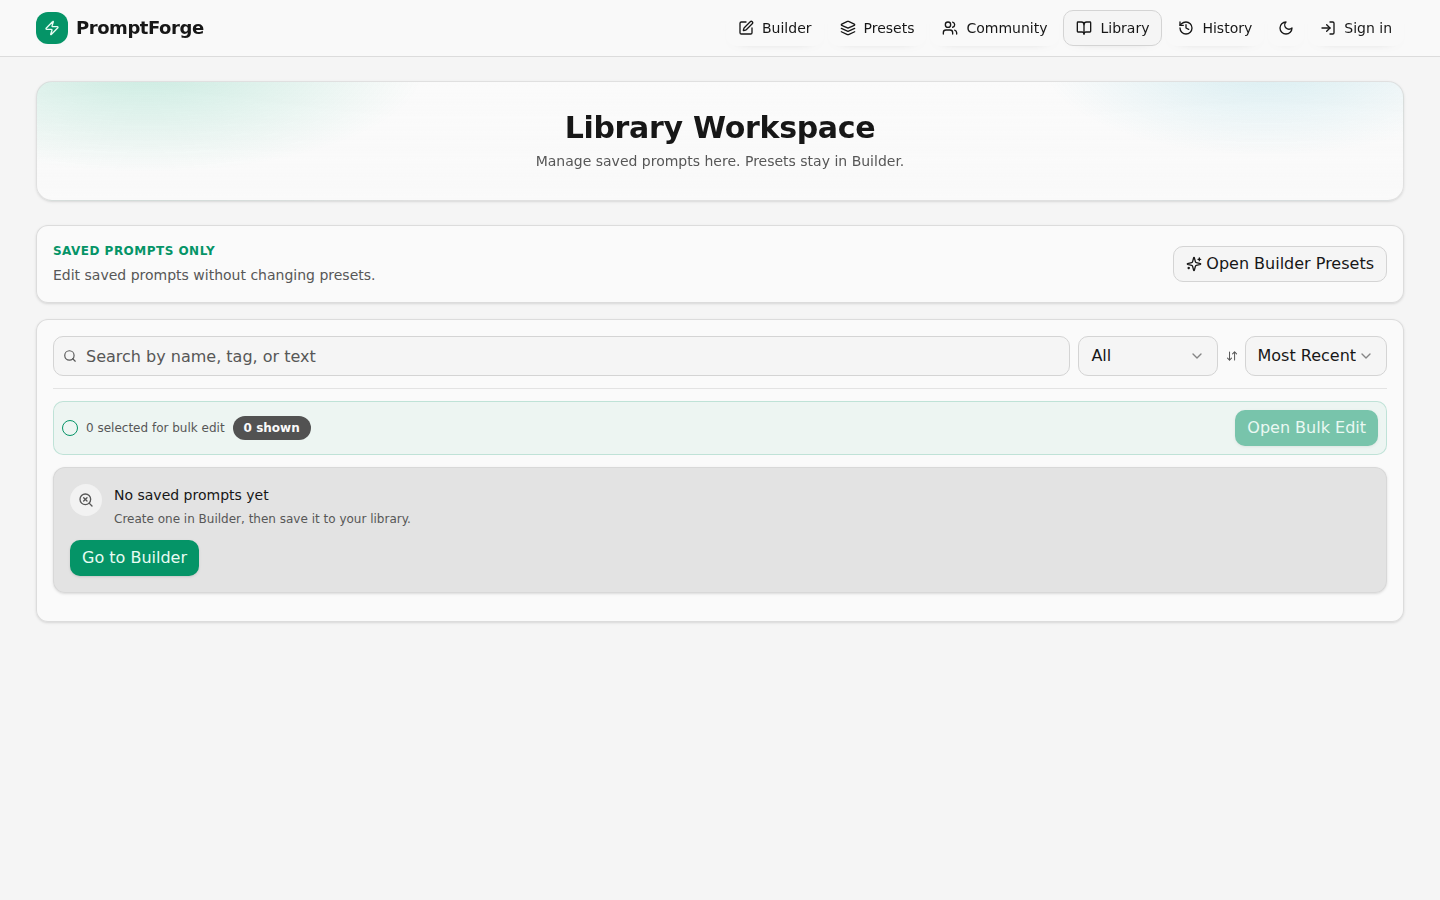
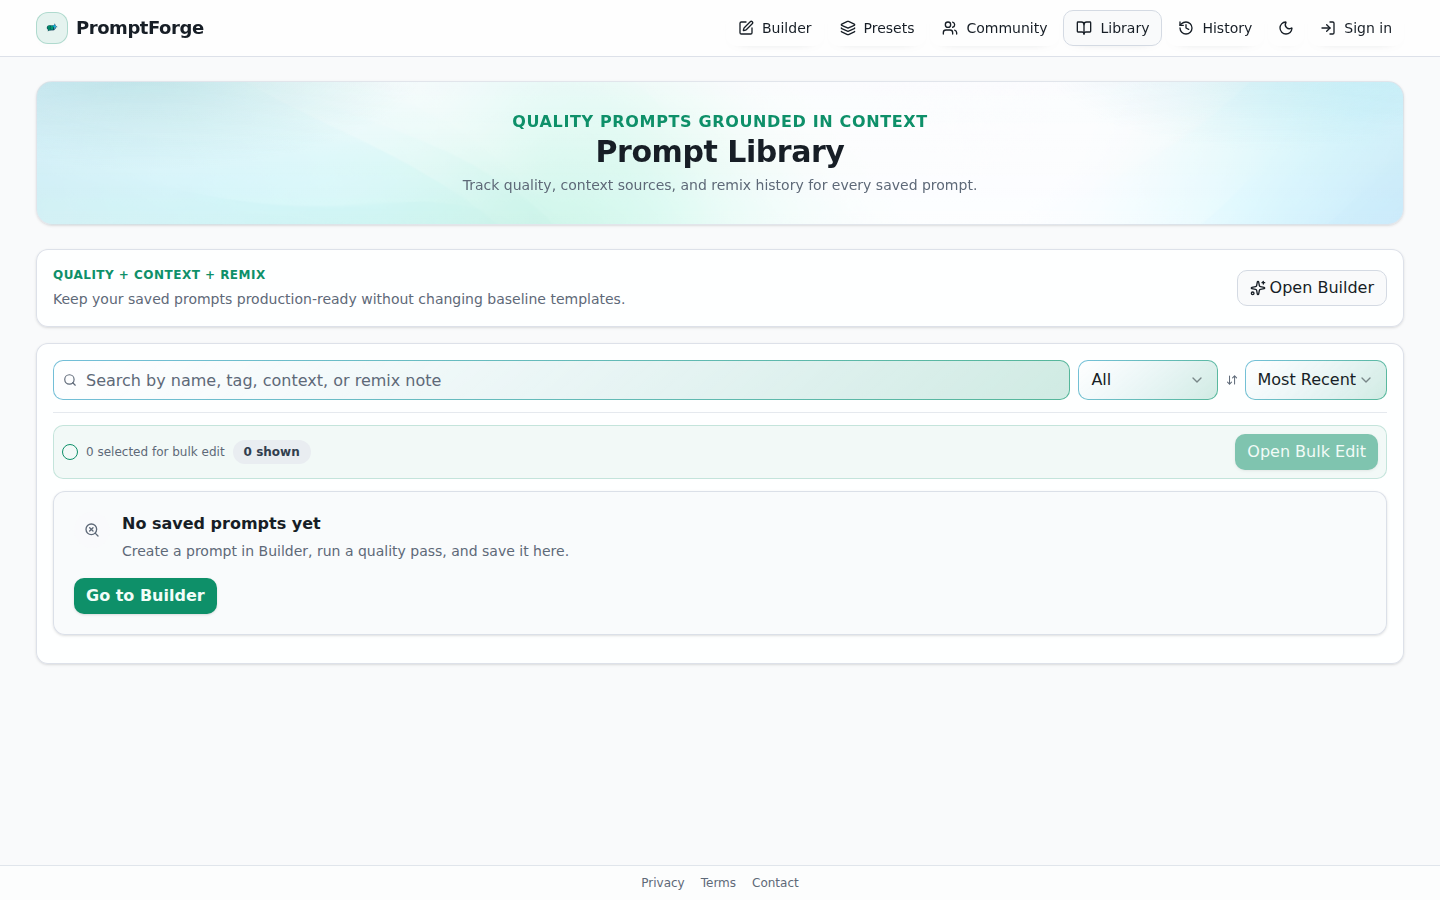
up

diff --git a/src/index.css b/src/index.css
@@ -431,6 +431,51 @@ All colors MUST be HSL.
 }
 
 @layer components {
+  .brand-gradient-hero {
+    background-image:
+      radial-gradient(520px 220px at 8% -12%, hsl(var(--delight-warm) / 0.2), transparent 58%),
+      radial-gradient(460px 220px at 92% -14%, hsl(var(--delight-cool) / 0.16), transparent 56%),
+      linear-gradient(180deg, hsl(var(--delight-surface) / 0.55), hsl(var(--card) / 0.9));
+  }
+
+  .brand-gradient-surface {
+    background-image: linear-gradient(
+      140deg,
+      hsl(var(--card)),
+      hsl(var(--delight-surface) / 0.72)
+    );
+  }
+
+  .brand-border-gradient {
+    border: 1px solid transparent;
+    background:
+      linear-gradient(hsl(var(--card)), hsl(var(--card))) padding-box,
+      linear-gradient(120deg, hsl(var(--delight-cool) / 0.6), hsl(var(--delight-warm) / 0.7)) border-box;
+  }
+
+  .brand-input-surface {
+    border: 1px solid transparent;
+    background:
+      linear-gradient(
+        140deg,
+        hsl(var(--card)),
+        hsl(var(--delight-surface) / 0.72)
+      ) padding-box,
+      linear-gradient(120deg, hsl(var(--delight-cool) / 0.6), hsl(var(--delight-warm) / 0.7)) border-box;
+  }
+
+  .brand-input-segment {
+    border-style: solid;
+    border-color: transparent;
+    background:
+      linear-gradient(
+        140deg,
+        hsl(var(--card)),
+        hsl(var(--delight-surface) / 0.72)
+      ) padding-box,
+      linear-gradient(120deg, hsl(var(--delight-cool) / 0.6), hsl(var(--delight-warm) / 0.7)) border-box;
+  }
+
   .delight-hero,
   .delight-hero-static {
     @apply rounded-2xl border border-border/70 px-4 py-5 sm:px-6 sm:py-7 shadow-sm;

diff --git a/src/components/ui/input.tsx b/src/components/ui/input.tsx
@@ -8,7 +8,7 @@ const Input = React.forwardRef<HTMLInputElement, React.ComponentProps<"input">>(
       <input
         type={type}
         className={cn(
-          "flex h-11 w-full rounded-md border border-input bg-background px-3 py-2 text-base ring-offset-background file:border-0 file:bg-transparent file:text-base file:font-medium file:text-foreground placeholder:text-muted-foreground focus-visible:outline-none focus-visible:ring-2 focus-visible:ring-ring focus-visible:ring-offset-2 disabled:cursor-not-allowed disabled:opacity-50 sm:h-10",
+          "brand-input-surface flex h-11 w-full rounded-md border px-3 py-2 text-base ring-offset-background file:border-0 file:bg-transparent file:text-base file:font-medium file:text-foreground placeholder:text-muted-foreground focus-visible:outline-none focus-visible:ring-2 focus-visible:ring-ring focus-visible:ring-offset-2 disabled:cursor-not-allowed disabled:opacity-50 sm:h-10",
           className,
         )}
         ref={ref}

diff --git a/src/components/ui/textarea.tsx b/src/components/ui/textarea.tsx
@@ -8,7 +8,7 @@ const Textarea = React.forwardRef<HTMLTextAreaElement, TextareaProps>(({ classNa
   return (
     <textarea
       className={cn(
-        "flex min-h-[96px] w-full rounded-md border border-input bg-background px-3 py-2 text-base ring-offset-background placeholder:text-muted-foreground focus-visible:outline-none focus-visible:ring-2 focus-visible:ring-ring focus-visible:ring-offset-2 disabled:cursor-not-allowed disabled:opacity-50 sm:min-h-[88px]",
+        "brand-input-surface flex min-h-[96px] w-full rounded-md border px-3 py-2 text-base ring-offset-background placeholder:text-muted-foreground focus-visible:outline-none focus-visible:ring-2 focus-visible:ring-ring focus-visible:ring-offset-2 disabled:cursor-not-allowed disabled:opacity-50 sm:min-h-[88px]",
         className,
       )}
       ref={ref}

diff --git a/src/components/ui/select.tsx b/src/components/ui/select.tsx
@@ -17,7 +17,7 @@ const SelectTrigger = React.forwardRef<
   <SelectPrimitive.Trigger
     ref={ref}
     className={cn(
-      "flex h-11 w-full items-center justify-between rounded-md border border-input bg-background px-3 py-2 text-base ring-offset-background placeholder:text-muted-foreground focus:outline-none focus:ring-2 focus:ring-ring focus:ring-offset-2 disabled:cursor-not-allowed disabled:opacity-50 sm:h-10 [&>span]:line-clamp-1",
+      "brand-input-surface flex h-11 w-full items-center justify-between rounded-md border px-3 py-2 text-base ring-offset-background placeholder:text-muted-foreground focus:outline-none focus:ring-2 focus:ring-ring focus:ring-offset-2 disabled:cursor-not-allowed disabled:opacity-50 sm:h-10 [&>span]:line-clamp-1",
       className,
     )}
     {...props}

diff --git a/src/components/ui/input-otp.tsx b/src/components/ui/input-otp.tsx
@@ -32,7 +32,7 @@ const InputOTPSlot = React.forwardRef<
     <div
       ref={ref}
       className={cn(
-        "relative flex h-11 w-11 items-center justify-center border-y border-r border-input text-sm transition-all first:rounded-l-md first:border-l last:rounded-r-md sm:h-10 sm:w-10 sm:text-base",
+        "brand-input-segment relative flex h-11 w-11 items-center justify-center border-y border-r border-l-0 text-sm transition-all first:rounded-l-md first:border-l last:rounded-r-md sm:h-10 sm:w-10 sm:text-base",
         isActive && "z-10 ring-2 ring-ring ring-offset-background",
         className,
       )}

diff --git a/src/components/PromptInput.tsx b/src/components/PromptInput.tsx
@@ -41,7 +41,7 @@ export function PromptInput({ value, onChange, onClear }: PromptInputProps) {
         value={value}
         onChange={(e) => onChange(e.target.value)}
         placeholder="Enter your basic prompt here... (e.g., 'Write a blog post about AI')"
-        className="min-h-[80px] sm:min-h-[120px] resize-none bg-background border-input text-foreground placeholder:text-muted-foreground focus:ring-2 focus:ring-ring"
+        className="min-h-[80px] resize-none text-foreground placeholder:text-muted-foreground sm:min-h-[120px]"
         aria-describedby={promptInputMetaId}
       />
     </div>

diff --git a/src/components/BuilderHeroInput.tsx b/src/components/BuilderHeroInput.tsx
@@ -64,7 +64,7 @@ export function BuilderHeroInput({
           value={value}
           onChange={(e) => onChange(e.target.value)}
           placeholder="Describe the task in 1-2 sentences. Example: Draft a concise project update for executives using these notes."
-          className="min-h-28 resize-y border-input bg-background text-foreground placeholder:text-muted-foreground focus:ring-2 focus:ring-ring sm:min-h-32"
+          className="min-h-28 resize-y text-foreground placeholder:text-muted-foreground sm:min-h-32"
           aria-describedby={promptInputMetaId}
         />
 

diff --git a/docs/design-system.md b/docs/design-system.md
@@ -142,6 +142,99 @@ This reduces “one-off” typography and improves consistency in dense forms.
   - `--shadow-2xs`, `--shadow-xs`, `--shadow-sm`, `--shadow-md`, `--shadow-lg`, `--shadow-xl`, `--shadow-2xl`
 - Base spacing token available as `--spacing`.
 
+## 6.1 Logo System
+
+Canonical logo assets live in `public/brand/`:
+
+- `pf-logo-symbol-primary-v2.png` (primary mark)
+- `pf-logo-wordmark-horizontal-v2.png` (horizontal wordmark)
+- `pf-logo-monogram-badge-v2.png` (badge/compact identity)
+
+Legacy aliases remain available for compatibility:
+
+- `pf-logo-symbol-primary.png`
+- `pf-logo-wordmark-horizontal.png`
+- `pf-logo-monogram-badge.png`
+
+Usage contract:
+
+- Product chrome and compact surfaces: symbol mark.
+- Header, hero, and marketing mastheads: horizontal wordmark.
+- Social/avatar and tight square surfaces: monogram badge.
+- Minimum rendered size:
+  - Symbol: `20px` width
+  - Wordmark: `96px` width
+  - Badge: `24px` width
+- Clear space: preserve at least `0.5x` logo height on all sides.
+- Do not stretch logos, recolor outside semantic brand tokens, or apply heavy effects that reduce legibility.
+
+## 6.2 Customized Gradient Recipes
+
+Primary gradient drivers:
+
+- `--delight-warm`
+- `--delight-cool`
+- `--delight-glow`
+- `--delight-surface`
+
+Branded overlays:
+
+- `public/brand/pf-gradient-hero-light.png`
+- `public/brand/pf-gradient-hero-dark.png`
+
+Recommended recipes (token-first, with optional asset overlay):
+
+```css
+.brand-gradient-hero {
+  background-image:
+    radial-gradient(520px 220px at 8% -12%, hsl(var(--delight-warm) / 0.2), transparent 58%),
+    radial-gradient(460px 220px at 92% -14%, hsl(var(--delight-cool) / 0.16), transparent 56%),
+    linear-gradient(180deg, hsl(var(--delight-surface) / 0.55), hsl(var(--card) / 0.9));
+}
+
+.brand-gradient-surface {
+  background-image: linear-gradient(
+    140deg,
+    hsl(var(--card)),
+    hsl(var(--delight-surface) / 0.72)
+  );
+}
+```
+
+## 6.3 Customized Borders and Frames
+
+Border assets in `public/brand/`:
+
+- `pf-border-frame-light.png`
+- `pf-border-frame-thin-v2.png`
+- `pf-border-frame-bold-v2.png`
+- `pf-border-frame-dashed-v2.png`
+- `pf-border-corners-minimal-v2.png`
+- `pf-border-strip-seamless.png`
+
+Recommended border treatments:
+
+- Default UI chrome: semantic token border (`border-border` / `--border`).
+- Emphasis panels: gradient border using transparent border + layered backgrounds.
+- Marketing/hero framing: image-based frame assets on non-critical decorative layers only.
+
+Gradient border recipe:
+
+```css
+.brand-border-gradient {
+  border: 1px solid transparent;
+  background:
+    linear-gradient(hsl(var(--card)), hsl(var(--card))) padding-box,
+    linear-gradient(120deg, hsl(var(--delight-cool) / 0.6), hsl(var(--delight-warm) / 0.7)) border-box;
+}
+```
+
+Border usage rules:
+
+- Keep interactive hit areas independent from decorative frame assets.
+- Avoid decorative borders on dense form regions and long text blocks.
+- Verify border contrast in both light and dark themes before release.
+
 ---
 
 ## 7) Motion and Interaction
@@ -198,9 +291,10 @@ Compact mode is supported via:
 When evolving the design system, use this order:
 
 1. **Token values**: `src/index.css`
-2. **Tailwind mapping**: `tailwind.config.ts`
-3. **Primitive contracts**: `src/components/ui/*`
-4. **Feature-specific semantic classes**: e.g., community type roles in `src/index.css`
+2. **Brand assets**: `public/brand/*`
+3. **Tailwind mapping**: `tailwind.config.ts`
+4. **Primitive contracts**: `src/components/ui/*`
+5. **Feature-specific semantic classes**: e.g., community type roles in `src/index.css`
 
 Avoid direct hardcoded `px` typography values and avoid bypassing primitives unless strictly necessary.
 

diff --git a/docs/design-ux-review-prompt.md b/docs/design-ux-review-prompt.md
@@ -1,0 +1,85 @@
+# PromptForge Design and UX Review Prompt
+
+```text
+You are a principal product designer + senior UX auditor. Review the app’s design system quality, visual consistency, and end-to-end UX using ONLY the assets and docs below.
+
+Goal:
+Deliver an evidence-based UX/design review that is actionable for engineering and product.
+
+Project context:
+- Product: PromptForge (prompt builder, library/history, community remix)
+- Primary users: developers and technical AI users
+- Design system reference: docs/design-system.md
+- Route/flow context: docs/review-inputs-fresh.md
+- Launch asset references: docs/launch-assets-pack.md
+
+Assets to review:
+- Mobile (390x844):
+  - screenshots/mobile/home.png
+  - screenshots/mobile/community.png
+  - screenshots/mobile/community-post-detail.png
+  - screenshots/mobile/library.png
+  - screenshots/mobile/history.png
+  - screenshots/mobile/notfound.png
+- Desktop (1440x900):
+  - screenshots/desktop/home.png
+  - screenshots/desktop/community.png
+  - screenshots/desktop/community-post-detail.png
+  - screenshots/desktop/library.png
+  - screenshots/desktop/history.png
+  - screenshots/desktop/notfound.png
+- Launch screenshots:
+  - screenshots/launch-sprint/builder-desktop.png
+  - screenshots/launch-sprint/library-desktop.png
+  - screenshots/launch-sprint/builder-mobile-390.png
+  - screenshots/launch-sprint/community-mobile-390.png
+- Additional:
+  - screenshots/desktop-home.png
+
+Required evaluation dimensions:
+1. Visual hierarchy and readability
+2. Navigation clarity and information architecture
+3. Input/form usability (focus heavily here)
+4. Mobile ergonomics (touch targets, spacing, keyboard/focus risks)
+5. Consistency with the design system/tokens
+6. Accessibility risks visible from UI (contrast, affordance, state clarity)
+7. Empty/error/not-found state quality
+8. Cross-screen and cross-device consistency
+9. Conversion/activation friction in key flows
+10. Overall brand coherence (logo/gradient/border usage)
+
+Output format (strict):
+1. Executive Summary (5-8 bullets)
+2. Findings (ordered by severity: Critical, High, Medium, Low)
+   - For each finding include:
+     - Title
+     - Evidence (exact screenshot/doc path)
+     - Why it matters (user impact + business impact)
+     - Recommendation (specific UI/UX change)
+     - Effort (S/M/L)
+3. Flow Audit
+   - Builder enhance flow
+   - Library manage flow
+   - Community discovery/remix flow
+   - For each: friction points, drop-off risks, quick wins
+4. Input-Area Deep Dive
+   - Evaluate clarity, affordance, visual prominence, state feedback, consistency, mobile comfort
+   - Call out where branded input treatments help/hurt usability
+5. Prioritized Action Plan
+   - P0 (this sprint), P1 (next sprint), P2 (later)
+   - Include success metric for each item
+6. Scorecard (0-10 each)
+   - Visual design
+   - UX clarity
+   - Accessibility readiness
+   - Mobile quality
+   - Design-system consistency
+   - Overall product polish
+
+Review constraints:
+- Do not invent evidence. If uncertain, say “Not verifiable from provided assets.”
+- Prefer concrete recommendations over generic advice.
+- Keep the review implementation-aware so engineers can act on it immediately.
+- Be candid and critical; avoid praise unless supported by clear evidence.
+```
+
